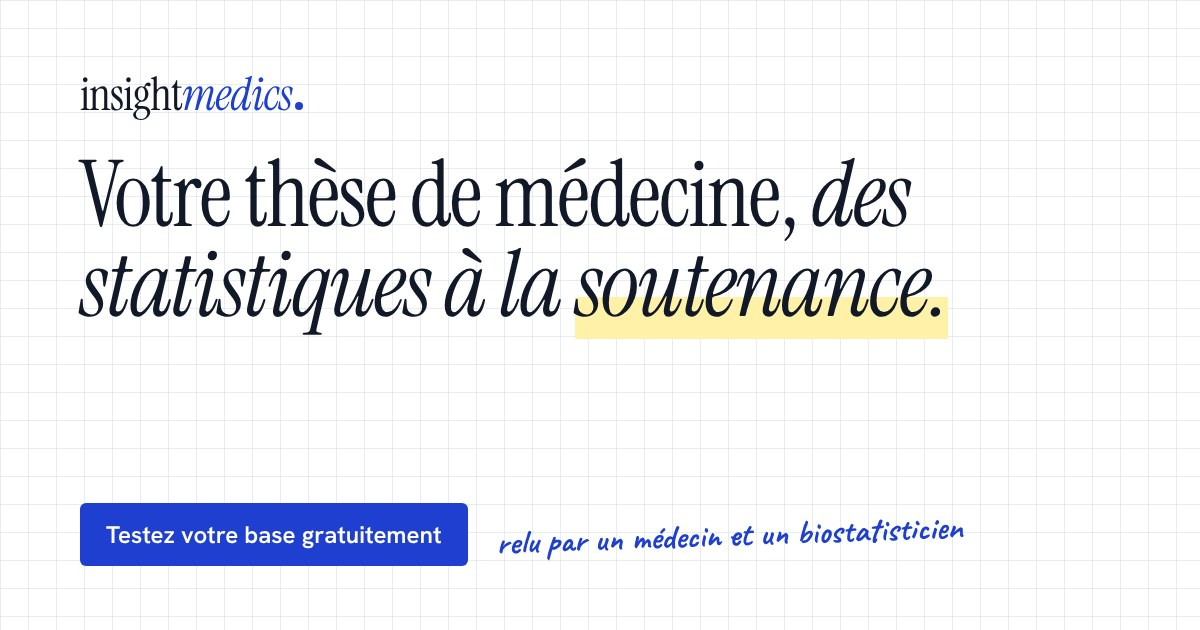
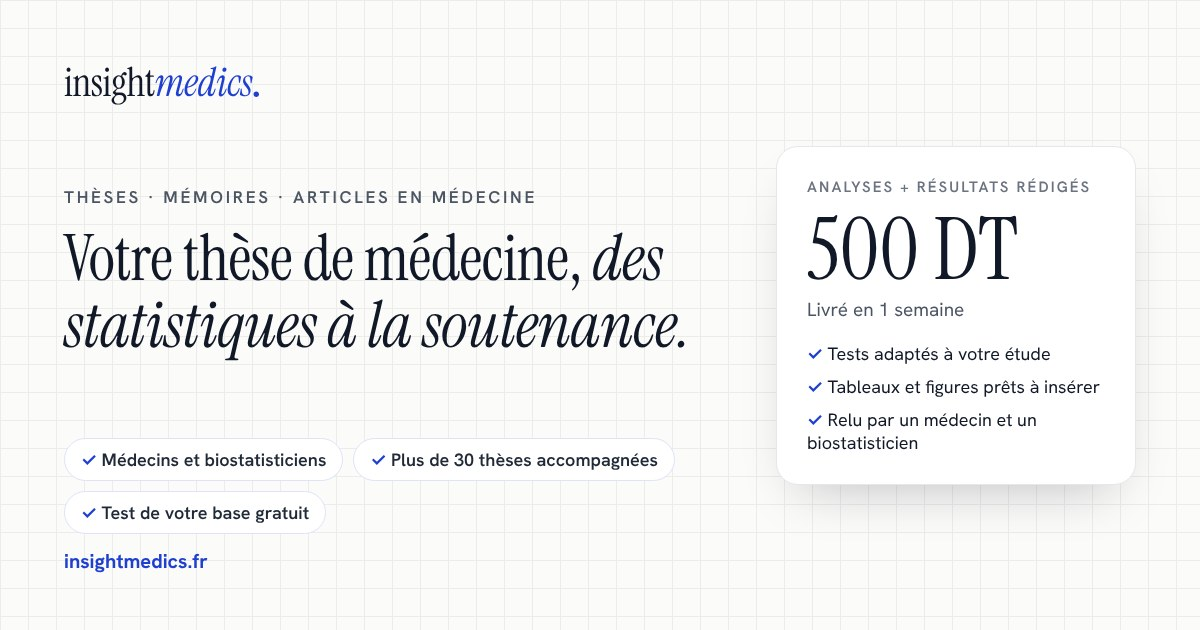
feat(seo): aperçus de liens par page et clé IndexNow (#36)
- Images d'aperçu 1200 × 630 générées par scripts/og-images.mjs, avec les polices du
  site : accueil (offre à 500 DT), test gratuit (carte de score), tarifs, guides (une
  par guide), rapport privé (aucune donnée de l'audit).
- pageHead accepte une image propre à la page ; balises og:image complètes (type,
  dimensions, texte alternatif, secure_url) et version dans l'URL pour vider le cache
  de WhatsApp et Facebook.
- Titre et description d'aperçu par défaut sur toutes les pages, et pour le lien privé
  que l'étudiant envoie à son directeur.
- Clé IndexNow (Bing, Yandex) à la racine.

Claude-Session: https://claude.ai/code/session_01VjGXsiaT1mZsTyEv88WW9F

diff --git a/src/lib/seo.ts b/src/lib/seo.ts
@@ -15,6 +15,23 @@ type JsonLd = Record<string, unknown>;
 const URL = siteConfig.url;
 export const absoluteUrl = (path: string) => `${URL}${path === "/" ? "/" : path}`;
 
+/** Version des images d'aperçu : à incrémenter quand on les regénère, pour que WhatsApp et
+ * Facebook ne resservent pas l'ancienne (ils gardent l'image en cache par URL). */
+const OG_VERSION = "2";
+/** Image d'aperçu des liens partagés (1200 × 630, générée par scripts/og-images.mjs). */
+const ogImageUrl = (path = "/og-image.jpg") => `${URL}${path}?v=${OG_VERSION}`;
+
+/** Balises de l'image d'aperçu (Open Graph et Twitter). */
+export const ogImageMeta = (path: string | undefined, alt: string) => [
+  { property: "og:image", content: ogImageUrl(path) },
+  { property: "og:image:secure_url", content: ogImageUrl(path) },
+  { property: "og:image:type", content: "image/jpeg" },
+  { property: "og:image:width", content: "1200" },
+  { property: "og:image:height", content: "630" },
+  { property: "og:image:alt", content: alt },
+  { name: "twitter:image", content: ogImageUrl(path) },
+];
+
 const ORG_ID = `${URL}/#organisation`;
 const SITE_ID = `${URL}/#site`;
 
@@ -31,6 +48,7 @@ export function pageHead({
   description,
   ogTitle,
   ogType = "website",
+  ogImage,
   jsonLd = [],
 }: {
   path: string;
@@ -40,6 +58,8 @@ export function pageHead({
   description: string;
   ogTitle?: string;
   ogType?: "website" | "article";
+  /** Chemin de l'image d'aperçu propre à la page (public/og/…) ; sinon l'image du site. */
+  ogImage?: string;
   jsonLd?: JsonLd[];
 }) {
   const url = absoluteUrl(path);
@@ -53,6 +73,7 @@ export function pageHead({
       { property: "og:type", content: ogType },
       { name: "twitter:title", content: ogTitle ?? title },
       { name: "twitter:description", content: description },
+      ...ogImageMeta(ogImage, ogTitle ?? title),
     ],
     links: [{ rel: "canonical", href: url }],
     scripts: jsonLd.map(ldScript),
@@ -86,7 +107,7 @@ export const organizationLd: JsonLd = {
   name: siteConfig.name,
   url: absoluteUrl("/"),
   logo: absoluteUrl("/icon-512.png"),
-  image: absoluteUrl("/og-image.jpg"),
+  image: ogImageUrl(),
   email: siteConfig.email,
   description:
     "Accompagnement en statistiques et en rédaction de thèses de médecine, mémoires et articles, par une équipe de médecins et de biostatisticiens. L'étudiant reste l'auteur : nous analysons et rédigeons avec lui.",
@@ -207,7 +228,7 @@ export function articleLd(a: {
     inLanguage: "fr",
     author: { "@id": ORG_ID },
     publisher: { "@id": ORG_ID },
-    image: absoluteUrl("/og-image.jpg"),
+    image: ogImageUrl(),
   };
 }
 

diff --git a/src/routes/__root.tsx b/src/routes/__root.tsx
@@ -10,8 +10,7 @@ import {
 import { useEffect, type ReactNode } from "react";
 import { Button } from "@/components/ui/button";
 import { SiteLayout } from "@/components/site/SiteLayout";
-import { ldScript, organizationLd, websiteLd } from "@/lib/seo";
-import { siteConfig } from "@/lib/site-config";
+import { ldScript, ogImageMeta, organizationLd, websiteLd } from "@/lib/seo";
 
 import appCss from "../styles.css?url";
 
@@ -93,15 +92,21 @@ export const Route = createRootRoute({
       { property: "og:type", content: "website" },
       { property: "og:locale", content: "fr_FR" },
       { name: "twitter:card", content: "summary_large_image" },
-      // Image d'aperçu des partages (Facebook, WhatsApp, LinkedIn) : URL absolue exigée.
-      { property: "og:image", content: `${siteConfig.url}/og-image.jpg` },
-      { property: "og:image:width", content: "1200" },
-      { property: "og:image:height", content: "630" },
+      // Aperçu par défaut des liens partagés (WhatsApp, Facebook, LinkedIn) ; chaque page
+      // publique précise les siens via pageHead.
       {
-        property: "og:image:alt",
-        content: "Insight Medics — Votre thèse de médecine, des statistiques à la soutenance.",
+        property: "og:title",
+        content: "Insight Medics — Statistiques et rédaction de thèse en médecine",
       },
-      { name: "twitter:image", content: `${siteConfig.url}/og-image.jpg` },
+      {
+        property: "og:description",
+        content:
+          "Analyses statistiques, résultats et thèse complète, avec des médecins et des biostatisticiens. Test de votre base gratuit.",
+      },
+      ...ogImageMeta(
+        undefined,
+        "Insight Medics — Votre thèse de médecine, des statistiques à la soutenance.",
+      ),
     ],
     scripts: [ldScript(organizationLd), ldScript(websiteLd)],
     links: [

diff --git a/src/routes/r.$token.tsx b/src/routes/r.$token.tsx
@@ -17,6 +17,7 @@ import {
   TechnicalDetails,
   WorkbookDownload,
 } from "@/components/audit/ClientReport";
+import { ogImageMeta } from "@/lib/seo";
 import { getClientResult, getClientDetail, clientDownloadUrl, ApiError } from "@/lib/api/client";
 import type { AiAssessment, AuditResult, ScoreDetail } from "@/lib/api/types";
 
@@ -25,6 +26,14 @@ export const Route = createFileRoute("/r/$token")({
     meta: [
       { title: "Votre audit · Insight Medics" },
       { name: "robots", content: "noindex, nofollow" },
+      // Aperçu quand l'étudiant envoie son lien à son directeur : rien de son audit.
+      { property: "og:title", content: "Audit de la base d'une thèse de médecine" },
+      {
+        property: "og:description",
+        content:
+          "Rapport privé Insight Medics : qualité de la base, points à corriger avant l'analyse, questions pour le directeur de thèse.",
+      },
+      ...ogImageMeta("/og/rapport.jpg", "Rapport d'audit privé Insight Medics"),
     ],
   }),
   component: ClientResultPage,

diff --git a/src/routes/tarifs.tsx b/src/routes/tarifs.tsx
@@ -15,6 +15,7 @@ export const Route = createFileRoute("/tarifs")({
   head: () =>
     pageHead({
       path: "/tarifs",
+      ogImage: "/og/tarifs.jpg",
       title: "Tarifs aide thèse de médecine en Tunisie | Insight Medics",
       description: `Test gratuit, audit complet ${FULL_AUDIT_PRICE_LABEL}, analyses + résultats ${getOffer("analyses").priceLabel}, discussion ${getOffer("discussion").priceLabel}, thèse complète ${getOffer("these").priceLabel}. Prix fixé avant de commencer.`,
       jsonLd: [servicesLd, breadcrumbLd([["Tarifs", "/tarifs"]])],

diff --git a/src/content/guides/index.ts b/src/content/guides/index.ts
@@ -5,7 +5,8 @@ import type { GuideMeta } from "@/content/guides/types";
 
 type Guide = GuideMeta & { Body: ComponentType };
 
-/** Les guides publiés, du plus récent au plus ancien (ajouter aussi l'URL au sitemap). */
+/** Les guides publiés, du plus récent au plus ancien (ajouter aussi l'URL au sitemap, et son
+ * image d'aperçu dans scripts/og-images.mjs). */
 export const GUIDES: Guide[] = [quelTest, regressionLogistique].map((m) => ({
   ...m.meta,
   Body: m.Body,

diff --git a/src/routes/audit.tsx b/src/routes/audit.tsx
@@ -22,6 +22,7 @@ export const Route = createFileRoute("/audit")({
   head: () =>
     pageHead({
       path: "/audit",
+      ogImage: "/og/audit.jpg",
       title: "Testez gratuitement votre base de thèse | Insight Medics",
       description: `Score sur 100 et anomalies de votre base SPSS, Excel ou CSV en quelques minutes, sans inscription. Audit complet et livrables à ${FULL_AUDIT_PRICE_LABEL}.`,
       jsonLd: [breadcrumbLd([["Test gratuit", "/audit"]])],

diff --git a/src/routes/guides.index.tsx b/src/routes/guides.index.tsx
@@ -12,6 +12,7 @@ export const Route = createFileRoute("/guides/")({
   head: () =>
     pageHead({
       path: "/guides",
+      ogImage: "/og/guides.jpg",
       title: "Guides de statistiques pour thèse de médecine | Insight Medics",
       description:
         "Choisir son test, interpréter un odds ratio, rédiger ses méthodes : des guides clairs et chiffrés pour la partie statistique de votre thèse de médecine.",

diff --git a/src/routes/guides.$slug.tsx b/src/routes/guides.$slug.tsx
@@ -20,6 +20,8 @@ export const Route = createFileRoute("/guides/$slug")({
       ogTitle: g.title,
       description: g.description,
       ogType: "article",
+      // Image générée par scripts/og-images.mjs (une par guide).
+      ogImage: `/og/guides/${g.slug}.jpg`,
       jsonLd: [
         articleLd({
           path,
